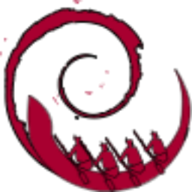
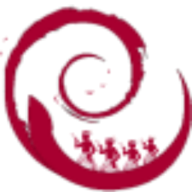
changes

diff --git a/src/components/BecomeSponsor/BecomeSponsor.jsx b/src/components/BecomeSponsor/BecomeSponsor.jsx
@@ -23,7 +23,10 @@ const BecomeSponsor = () => {
         Thank you for your interest in DebUtsav and we look forward to
         collaborate with you to make this event a great success.
       </p>
-      <SponsorTable />
+      
+        {" "}
+        <SponsorTable />
+     
       <button className="md:block register self-start text-sm my-4 md:text-xl text-white bg-red px-6 py-4">
         <a
           href={

diff --git a/src/components/Navbar/Navbar.jsx b/src/components/Navbar/Navbar.jsx
@@ -1,5 +1,5 @@
 
-import logo from '../../assets/logo.svg'
+import logo from '../../assets/debutsav.svg'
 import "./Navbar.css";
 import { useState } from "react";
 
